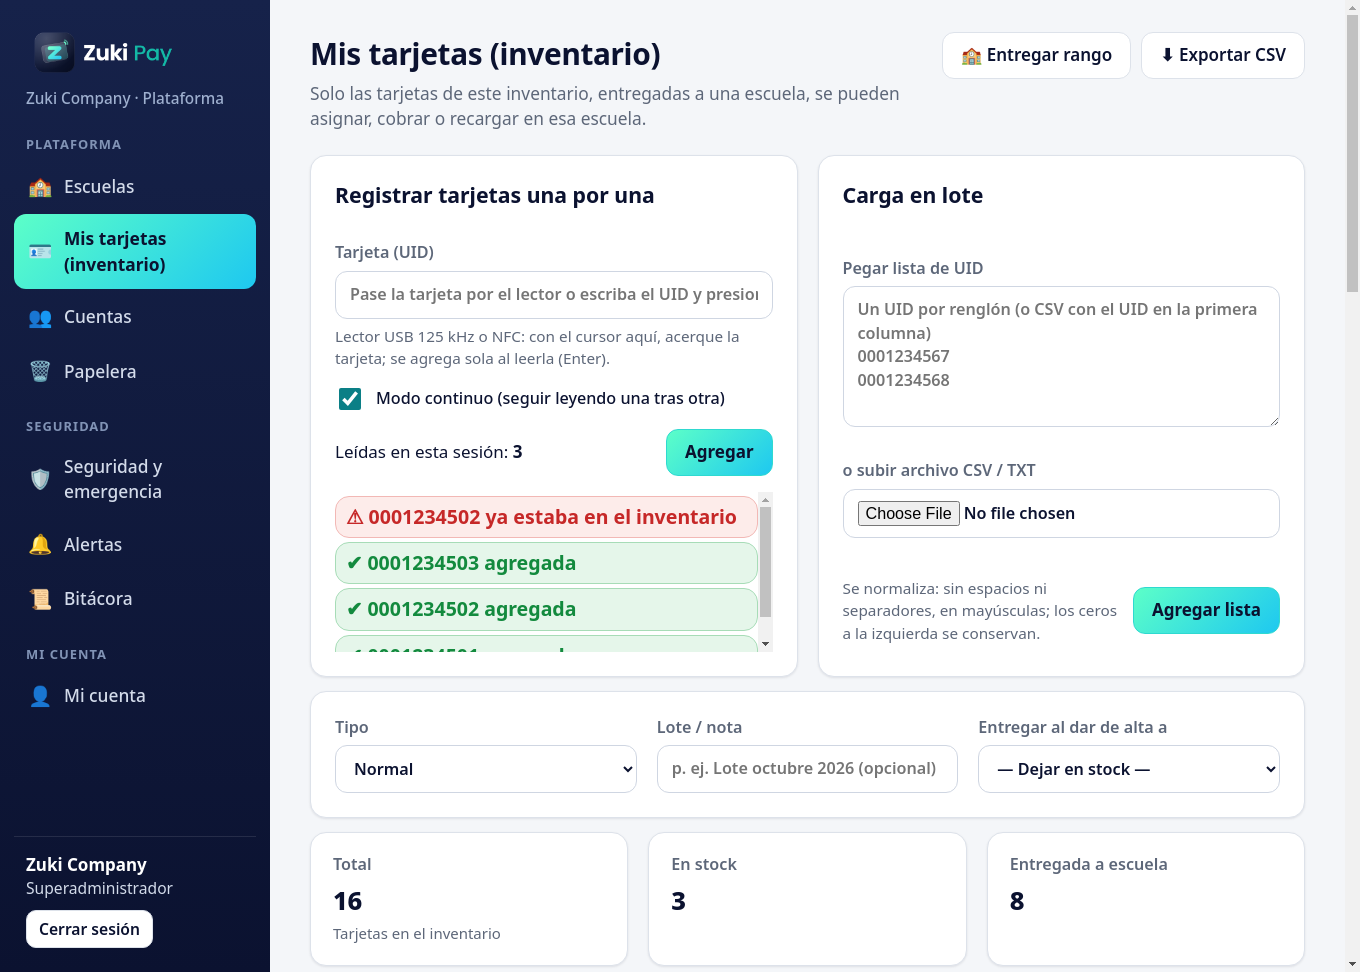
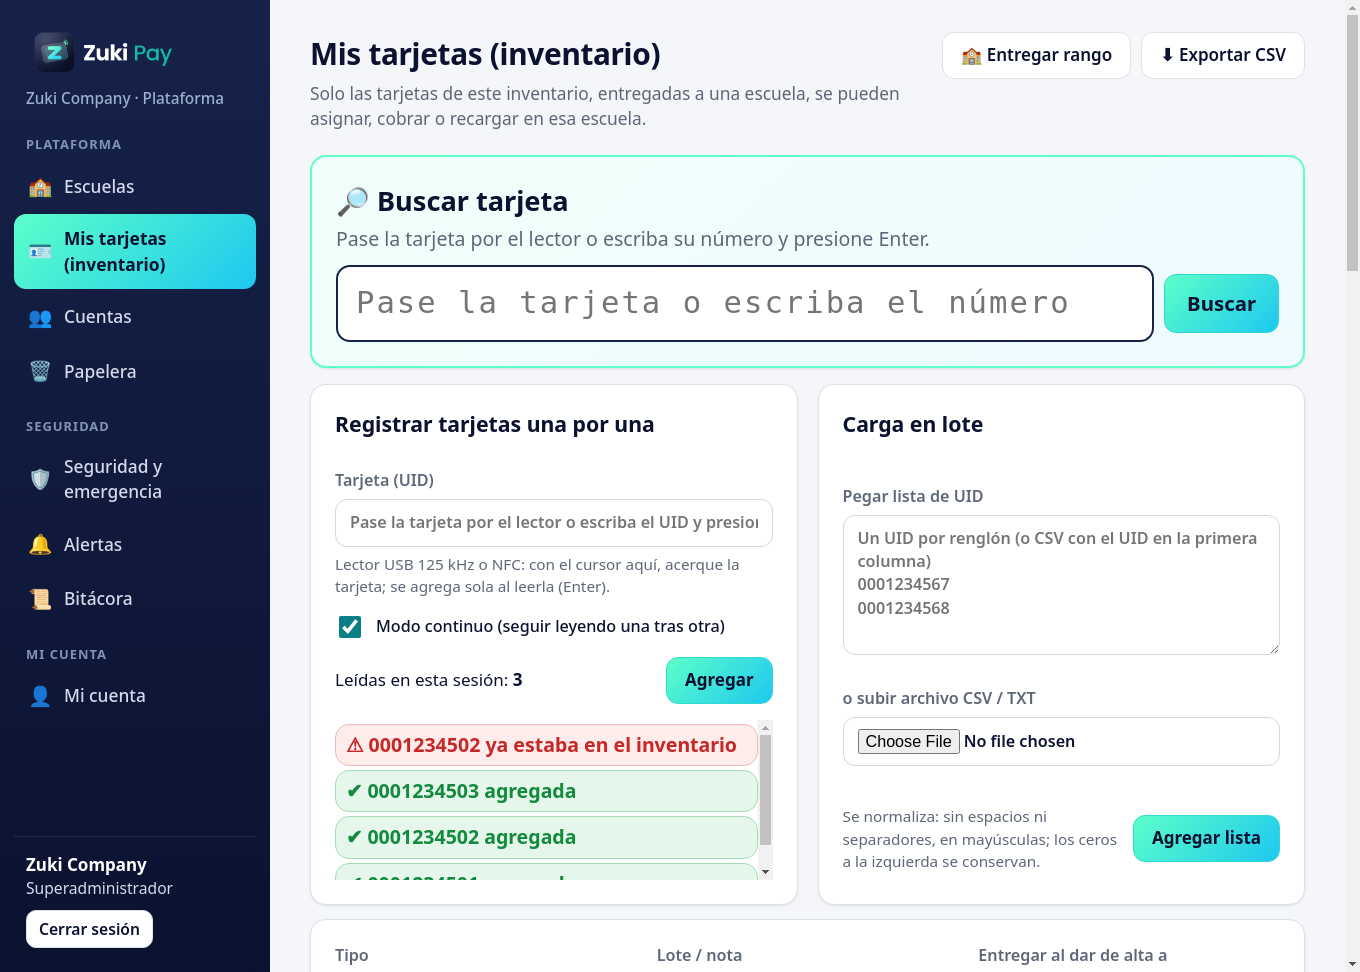
Mis tarjetas (superadmin): recuadro 'Buscar tarjeta' arriba para lector USB 125 kHz (UID + Enter, autofoco, se limpia tras cada lectura); stockFind normaliza como el servidor y tolera ceros a la izquierda; muestra UID, estado, escuela y acciones (entregar, bloquear/desbloquear, quitar) y resalta/des

diff --git a/src/renderer/app.js b/src/renderer/app.js
@@ -2135,7 +2135,7 @@
       listBox.append(rows.length ? h('table', { class: 'resp resp-md' }, h('tr', { class: 'head' }, h('th', null, all), ['UID', 'Tipo', 'Estado', 'Escuela', 'Alumno', 'Alta', 'Lote / nota', ''].map((x) => h('th', null, x))),
         rows.map((c) => {
           const cb = h('input', { type: 'checkbox', checked: selected.has(c.id), onchange: () => { if (cb.checked) selected.add(c.id); else selected.delete(c.id); drawSelBar(); } });
-          return h('tr', null, h('td', null, cb), h('td', { 'data-label': 'UID' }, h('code', null, c.uid)), h('td', { 'data-label': 'Tipo' }, c.kind === 'personalizada' ? 'Personalizada' : 'Normal'),
+          return h('tr', { 'data-stock-id': c.id, class: c.id === highlightId ? 'stock-hit' : null }, h('td', null, cb), h('td', { 'data-label': 'UID' }, h('code', null, c.uid)), h('td', { 'data-label': 'Tipo' }, c.kind === 'personalizada' ? 'Personalizada' : 'Normal'),
             h('td', { 'data-label': 'Estado' }, stockBadge(c.status)), h('td', { 'data-label': 'Escuela' }, c.school_name || h('span', { class: 'muted' }, '—')),
             h('td', { 'data-label': 'Alumno' }, c.child_name || '—'), h('td', { 'data-label': 'Alta', class: 'small' }, fmtDate(c.created_at)),
             h('td', { 'data-label': 'Lote / nota', class: 'small' }, [c.batch, c.note].filter(Boolean).join(' · ') || '—'),
@@ -2143,6 +2143,7 @@
               ['bloqueada', 'danada'].includes(c.status) ? h('button', { class: 'btn sm', onclick: () => bulkStatus('desbloquear', [c.id]) }, 'Desbloquear') : h('button', { class: 'btn sm', onclick: () => bulkStatus('bloqueada', [c.id]) }, 'Bloquear'), ' ',
               !c.card_id ? h('button', { class: 'btn sm danger', onclick: () => removeCards([c.id]) }, 'Eliminar') : h('button', { class: 'btn sm danger', onclick: () => purgeCards([c.id]) }, 'Eliminar definitivamente')));
         })) : h('div', { class: 'empty' }, 'No hay tarjetas con esos filtros'), h('p', { class: 'small muted' }, `${rows.length} tarjeta(s) mostradas`));
+      if (lastFound && !findBusy) doFind(lastFound, true);
     };
     for (const el of [fSt, fSch]) el.addEventListener('change', reload);
     let qt; q.addEventListener('input', () => { clearTimeout(qt); qt = setTimeout(reload, 250); });
@@ -2150,8 +2151,57 @@
       const r = await safe(() => superCall('stockExport', filters()));
       if (r) downloadBlob(new Blob(['\ufeff' + r.csv], { type: 'text/csv;charset=utf-8' }), r.filename);
     };
+    // --- Buscar tarjeta (lector USB 125 kHz tipo teclado: 10 dígitos + Enter) ---
+    let highlightId = null;
+    const findIn = h('input', { class: 'find-input', placeholder: 'Pase la tarjeta o escriba el número', autocomplete: 'off', inputmode: 'numeric', 'data-find-input': '', 'aria-label': 'Buscar tarjeta' });
+    const findOut = h('div', { class: 'find-out', 'aria-live': 'polite' });
+    let findT; let lastFound = null; let findBusy = false;
+    const doFind = async (raw, quiet) => {
+      const v = String(raw || '').trim(); if (!v) return;
+      let r; try { r = await superCall('stockFind', { uid: v }); } catch (e) { findOut.innerHTML = ''; findOut.append(h('div', { class: 'find-msg err' }, '✖ ' + e.message)); return; }
+      findOut.innerHTML = '';
+      if (!r.found) {
+        if (!quiet) beep(false); lastFound = null; highlightId = null;
+        findOut.append(h('div', { class: 'find-card miss' }, h('div', { class: 'find-uid' }, r.uid || v),
+          h('div', { class: 'find-msg err' }, 'Esta tarjeta no está en tu inventario'),
+          r.uid ? h('button', { class: 'btn primary lg', onclick: async () => {
+            try {
+              const a = await superCall('stockAdd', { uid: r.uid, kind: kind.value, batch: batch.value || undefined });
+              if (a.added) { toast('Tarjeta ' + a.added_uids[0] + ' agregada al inventario', 'ok'); lastFound = a.added_uids[0]; findBusy = true; try { await reload(); } finally { findBusy = false; } doFind(a.added_uids[0]); } else toast('No se pudo agregar', 'err');
+            } catch (e) { toast(e.message, 'err'); }
+          } }, '➕ Agregar a mi inventario') : null));
+        return;
+      }
+      if (!quiet) beep(true); const c = r.card; lastFound = c.uid; highlightId = c.id;
+      const st = c.status; const blocked = ['bloqueada', 'danada'].includes(st);
+      const stTxt = { en_stock: 'En stock', entregada: 'Entregada', asignada: 'Entregada (asignada a alumno)', bloqueada: 'Bloqueada', danada: 'Dañada' }[st] || st;
+      findOut.append(h('div', { class: 'find-card hit' },
+        h('div', { class: 'find-uid' }, c.uid, c.uid !== r.uid ? h('span', { class: 'small muted' }, `  (leído: ${r.uid})`) : null),
+        h('div', { class: 'find-row' }, h('span', { class: 'muted' }, 'Estado: '), h('span', { class: 'find-st st-' + st }, stTxt)),
+        h('div', { class: 'find-row' }, h('span', { class: 'muted' }, 'Escuela: '), h('b', null, c.school_name || 'Sin escuela')),
+        c.child_name ? h('div', { class: 'find-row' }, h('span', { class: 'muted' }, 'Alumno: '), h('b', null, c.child_name)) : null,
+        h('div', { class: 'find-actions' },
+          h('button', { class: 'btn primary lg', onclick: () => pickSchool('Entregar a escuela', { ids: [c.id] }) }, '🏫 Entregar a escuela'),
+          blocked ? h('button', { class: 'btn lg', onclick: () => bulkStatus('desbloquear', [c.id]) }, 'Desbloquear') : h('button', { class: 'btn lg', onclick: () => bulkStatus('bloqueada', [c.id]) }, '⛔ Bloquear'),
+          !c.card_id ? h('button', { class: 'btn lg danger', onclick: () => removeCards([c.id]) }, 'Quitar del inventario') : h('button', { class: 'btn lg danger', onclick: () => purgeCards([c.id]) }, '🗑 Eliminar definitivamente'))));
+      // resaltar y desplazar en la lista (si no está visible con los filtros, se limpian)
+      if (quiet) return;
+      let row = listBox.querySelector(`[data-stock-id="${c.id}"]`);
+      if (!row && (q.value || fSt.value || fSch.value)) { q.value = ''; fSt.value = ''; fSch.value = ''; findBusy = true; try { await reload(); } finally { findBusy = false; } row = listBox.querySelector(`[data-stock-id="${c.id}"]`); }
+      listBox.querySelectorAll('.stock-hit').forEach((x) => x.classList.remove('stock-hit'));
+      if (row) { row.classList.add('stock-hit'); row.scrollIntoView({ behavior: 'smooth', block: 'center' }); }
+      setTimeout(() => findIn.focus({ preventScroll: true }), 600);
+    };
+    const runFind = () => { clearTimeout(findT); const v = findIn.value; findIn.value = ''; doFind(v); };
+    findIn.addEventListener('keydown', (e) => { if (e.key === 'Enter') { e.preventDefault(); runFind(); } });
+    // al escribir/pegar: si ya hay 10 dígitos (lectura completa), buscar sin esperar Enter
+    findIn.addEventListener('input', () => { clearTimeout(findT); const d = findIn.value.replace(/\D/g, ''); if (d.length >= 10 && /^[\d\s\-]+$/.test(findIn.value)) findT = setTimeout(runFind, 350); });
+    const findBox = h('div', { class: 'card find-box' }, h('h2', { class: 'find-title' }, '🔎 Buscar tarjeta'),
+      h('p', { class: 'find-help' }, 'Pase la tarjeta por el lector o escriba su número y presione Enter.'),
+      h('div', { class: 'row find-inrow' }, findIn, h('button', { class: 'btn primary lg', onclick: runFind }, 'Buscar')), findOut);
     put(main, pageHead('Mis tarjetas (inventario)', 'Solo las tarjetas de este inventario, entregadas a una escuela, se pueden asignar, cobrar o recargar en esa escuela.',
       h('button', { class: 'btn', onclick: () => pickSchool('Entregar un rango a escuela') }, '🏫 Entregar rango'), h('button', { class: 'btn', onclick: exportCsv }, '⬇ Exportar CSV')),
+      findBox,
       h('div', { class: 'grid g2' },
         h('div', { class: 'card form' }, h('h2', null, 'Registrar tarjetas una por una'),
           field('Tarjeta (UID)', uidIn, 'Lector USB 125 kHz o NFC: con el cursor aquí, acerque la tarjeta; se agrega sola al leerla (Enter).'),
@@ -2163,7 +2213,7 @@
       countsBox,
       h('div', { class: 'card tablewrap' }, h('h2', null, 'Tarjetas'), h('div', { class: 'filters row', style: { gap: '8px', flexWrap: 'wrap', marginBottom: '10px' } }, q, fSt, fSch), selBar, listBox));
     await reload();
-    setTimeout(() => uidIn.focus(), 50);
+    setTimeout(() => findIn.focus(), 50);
   };
 
   // ======================================================================

diff --git a/src/core/card-stock.js b/src/core/card-stock.js
@@ -45,6 +45,21 @@ function createCardStock(db, { security = null, now = () => new Date() } = {}) {
       FROM card_stock s LEFT JOIN schools sc ON sc.id = s.school_id LEFT JOIN cards k ON k.uid = s.uid LEFT JOIN children c ON c.id = k.child_id
       ${w.length ? 'WHERE ' + w.join(' AND ') : ''} ORDER BY s.id DESC LIMIT ${limit}`, p);
   }
+  // Buscar una tarjeta por UID (lector USB 125 kHz): normaliza igual que el alta y, si no hay
+  // coincidencia exacta, acepta un UID que solo difiere por ceros a la izquierda.
+  function find(actor, a = {}) {
+    need(actor);
+    const uid = tryNorm(a.uid);
+    if (!uid) return { uid: null, found: false, card: null };
+    const base = `SELECT s.*, sc.name AS school_name, k.id AS card_id, c.full_name AS child_name
+      FROM card_stock s LEFT JOIN schools sc ON sc.id = s.school_id LEFT JOIN cards k ON k.uid = s.uid LEFT JOIN children c ON c.id = k.child_id`;
+    let card = db.get(`${base} WHERE s.uid = ?`, [uid]);
+    if (!card) {
+      const core = uid.replace(/^0+/, '') || '0';
+      card = db.get(`${base} WHERE (CASE WHEN LTRIM(s.uid, '0') = '' THEN '0' ELSE LTRIM(s.uid, '0') END) = ? ORDER BY s.id LIMIT 1`, [core]);
+    }
+    return { uid, found: !!card, card: card || null };
+  }
   function summary(actor) {
     need(actor);
     const by = Object.fromEntries(STATES.map((s) => [s, 0]));
@@ -209,6 +224,7 @@ function createCardStock(db, { security = null, now = () => new Date() } = {}) {
   const methods = {
     stockList: (u, a) => list(u, a),
     stockSummary: (u) => summary(u),
+    stockFind: (u, a) => find(u, a),
     stockAdd: (u, a, c) => add(u, a, c),
     stockDeliver: (u, a, c) => deliver(u, a, c),
     stockSetStatus: (u, a, c) => setStatus(u, a, c),
@@ -217,7 +233,7 @@ function createCardStock(db, { security = null, now = () => new Date() } = {}) {
     stockPurge: (u, a, c) => purge(u, a, c),
     stockExport: (u, a) => exportCsv(u, a),
   };
-  return { methods, list, summary, add, deliver, setStatus, update, remove, purge, exportCsv };
+  return { methods, list, find, summary, add, deliver, setStatus, update, remove, purge, exportCsv };
 }
 
 module.exports = { createCardStock, parseUidList, STATES };

diff --git a/src/renderer/styles.css b/src/renderer/styles.css
@@ -226,3 +226,25 @@ tr.low td { background: #fffaf0; }
 .nav a.active { background: linear-gradient(135deg, var(--mint), var(--cyan)); color: var(--navy); }
 .nav a.active .ico { filter: none; }
 .sr-only { position: absolute; width: 1px; height: 1px; overflow: hidden; clip: rect(0 0 0 0); white-space: nowrap; }
+
+/* Mis tarjetas: Buscar tarjeta (lector USB 125 kHz) — letra grande */
+.find-box { border: 2px solid var(--mint); background: linear-gradient(135deg, #f0fffa, #eefaff); margin: 0 0 16px; }
+.find-title { font-size: 1.6rem; color: var(--navy); margin: 0 0 4px; }
+.find-help { font-size: 1.15rem; color: var(--muted); margin: 0 0 12px; }
+.find-inrow { gap: 10px; flex-wrap: wrap; }
+.find-input { flex: 1; min-width: 220px; font-size: 1.8rem !important; padding: 14px 18px !important; letter-spacing: 2px; font-family: ui-monospace, Menlo, Consolas, monospace; border: 2px solid var(--navy-2) !important; border-radius: 14px; }
+.find-input:focus { outline: 4px solid var(--mint); outline-offset: 1px; }
+.btn.lg { font-size: 1.2rem; padding: 14px 22px; min-height: 54px; }
+.find-out:empty { display: none; }
+.find-card { margin-top: 14px; padding: 16px 18px; border-radius: 14px; background: #fff; border: 2px solid var(--border); font-size: 1.2rem; }
+.find-card.hit { border-color: var(--ok); }
+.find-card.miss { border-color: var(--err); }
+.find-uid { font-family: ui-monospace, Menlo, Consolas, monospace; font-size: 2rem; font-weight: 700; color: var(--navy); letter-spacing: 2px; margin-bottom: 6px; }
+.find-row { margin: 4px 0; }
+.find-st { display: inline-block; padding: 4px 14px; border-radius: 999px; font-weight: 700; background: var(--primary-bg); color: var(--primary-d); }
+.find-st.st-entregada, .find-st.st-asignada { background: var(--ok-bg); color: var(--ok); }
+.find-st.st-bloqueada, .find-st.st-danada { background: var(--err-bg); color: var(--err); }
+.find-msg { font-size: 1.4rem; font-weight: 700; margin: 6px 0 12px; }
+.find-msg.err { color: var(--err); }
+.find-actions { display: flex; gap: 10px; flex-wrap: wrap; margin-top: 14px; }
+tr.stock-hit td { background: #d9fff1 !important; box-shadow: inset 0 2px 0 var(--mint), inset 0 -2px 0 var(--mint); }

diff --git a/test/card-stock.test.js b/test/card-stock.test.js
@@ -61,6 +61,16 @@ test('superadmin: alta uno por uno y en lote (repetidos/inválidos informados), 
   assert.ok(S.db.get("SELECT 1 AS x FROM audit_log WHERE action = 'inventario_tarjetas_entrega'"));
 });
 
+test('superadmin: stockFind (Buscar tarjeta) normaliza y tolera ceros a la izquierda', async () => {
+  let r = (await sup('stockFind', { uid: '0001234570' })).data; assert.equal(r.found, true); assert.equal(r.card.uid, '0001234570'); assert.equal(r.card.status, 'entregada'); assert.ok(r.card.school_name);
+  r = (await sup('stockFind', { uid: ' 000-123-4570 ' })).data; assert.equal(r.card.uid, '0001234570');
+  r = (await sup('stockFind', { uid: '1234570' })).data; assert.equal(r.found, true); assert.equal(r.card.uid, '0001234570');
+  r = (await sup('stockFind', { uid: '00007777777' })).data; assert.equal(r.card.uid, '0007777777');
+  r = (await sup('stockFind', { uid: '0009990001' })).data; assert.equal(r.found, false); assert.equal(r.uid, '0009990001');
+  r = (await sup('stockFind', { uid: '!!' })).data; assert.equal(r.found, false);
+  assert.equal((await api('/api/super/stockFind', { body: { uid: '0001234570' }, token: A })).status, 403);
+});
+
 test('asignar: tarjeta fuera del inventario, sin entregar o de otra escuela se rechaza con alerta y bitácora', async () => {
   for (const [uid, why] of [['0009990001', /no está en el inventario/], ['0007777777', /no ha sido entregada/], ['0001234570', /otra escuela/]]) {
     for (const [m, body] of [['assignCardByUid', { uid, child_id: kid1 }], ['registerCard', { uid }]]) {

diff --git a/server/public/sw.js b/server/public/sw.js
@@ -4,7 +4,7 @@
 // * Siempre se pide primero a la red (la interfaz guardada solo se usa si no hay conexión).
 // * Las llamadas a /api/ nunca pasan por la caché: sin conexión fallan y la interfaz bloquea cobros y recargas.
 //   No hay cola de operaciones sin conexión.
-const CACHE = 'coop-v10';
+const CACHE = 'coop-v11';
 const SHELL = ['/', '/index.html', '/styles.css', '/web.css', '/app.js', '/install-gate.js', '/coop-web.js', '/manifest.webmanifest', '/icon-192.png', '/icon-512.png', '/apple-touch-icon.png', '/favicon.ico', '/logo-zukipay.png', '/logo-zukipay-blanco.png'];
 self.addEventListener('install', (e) => { e.waitUntil(caches.open(CACHE).then((c) => c.addAll(SHELL.map((u) => new Request(u, { cache: 'reload' }))))); self.skipWaiting(); });
 self.addEventListener('activate', (e) => { e.waitUntil(caches.keys().then((ks) => Promise.all(ks.filter((k) => k !== CACHE).map((k) => caches.delete(k))))); self.clients.claim(); });

diff --git a/test/install-gate.test.js b/test/install-gate.test.js
@@ -35,5 +35,5 @@ test('index.html carga la pantalla antes de la app y el SW la guarda (cache v10)
   const html = fs.readFileSync(path.join(__dirname, '../server/public/index.html'), 'utf8');
   assert.ok(html.indexOf('/install-gate.js') > 0 && html.indexOf('/install-gate.js') < html.indexOf('/app.js'));
   const sw = fs.readFileSync(path.join(__dirname, '../server/public/sw.js'), 'utf8');
-  assert.match(sw, /coop-v10/); assert.match(sw, /'\/install-gate\.js'/);
+  assert.match(sw, /coop-v11/); assert.match(sw, /'\/install-gate\.js'/);
 });
